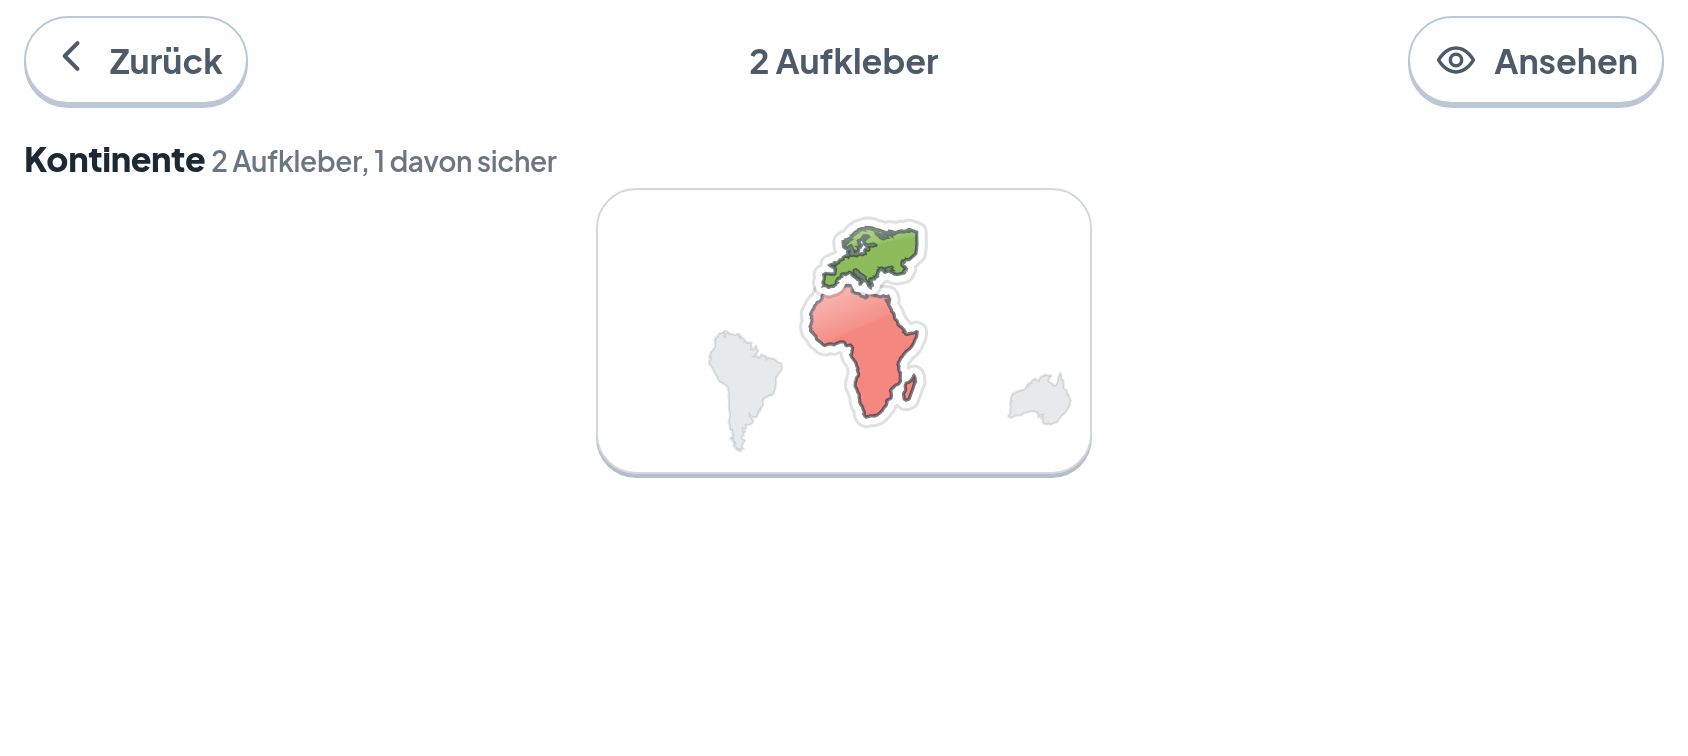
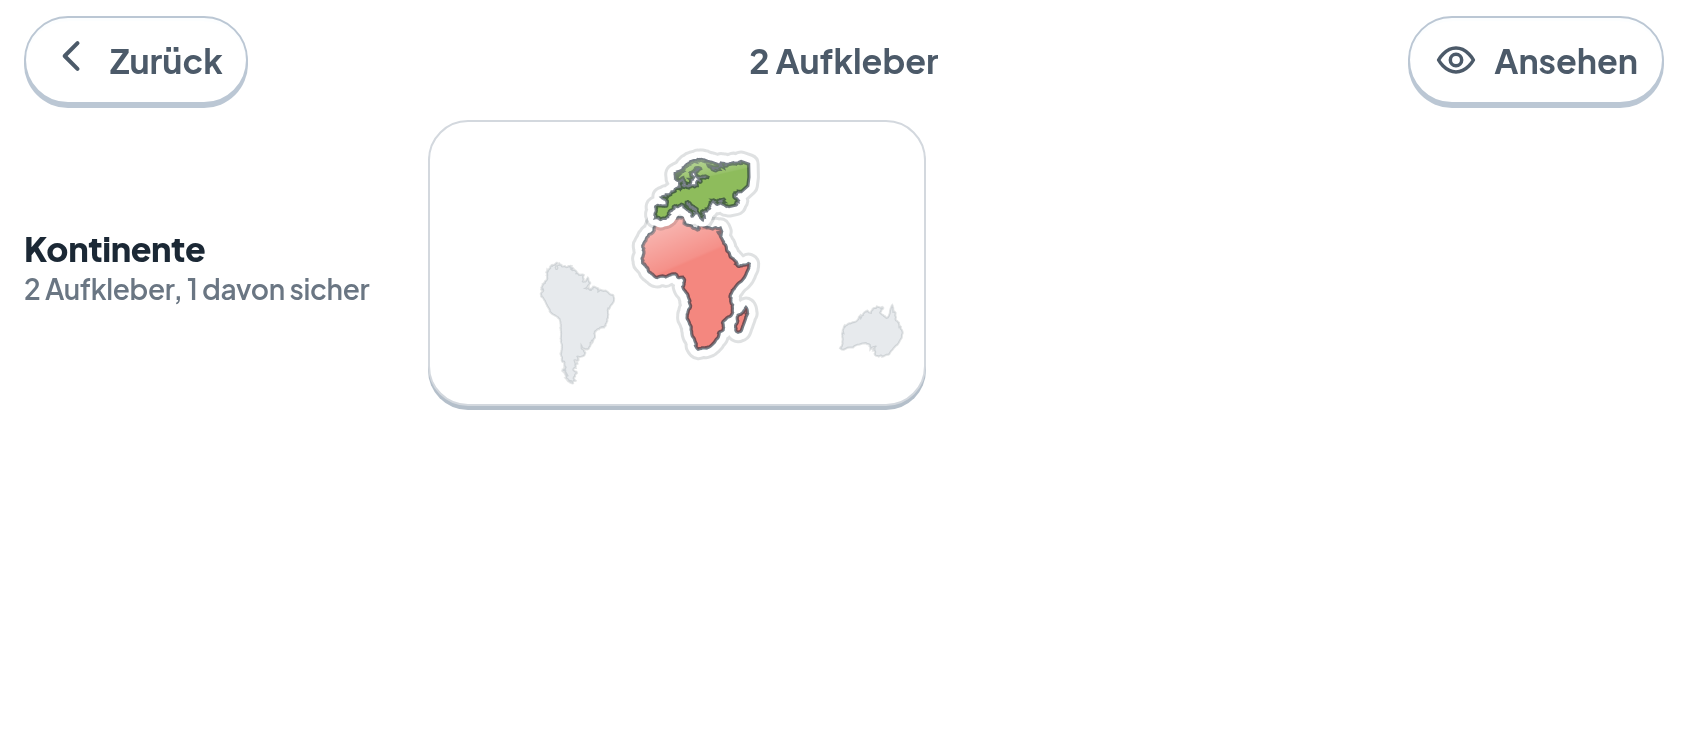
Q35: das Buch, das kein Tor gefuellt gesehen hat — und die Spalte, die sich verschoben hat
DER ANLASS. Zwei stehende Gegenproben bewiesen nichts mehr, und beide
hingen am Forscherbuch. Nachgesehen, was das Tor dort ueberhaupt sieht:
EINE Karte. Seit Q28 fasst eine Ebene MIT Landkarte ihre Aufkleber zu
einer Albumkarte zusammen - und der Rauchtest pflanzte nur
Bundeslaender-Fortschritt. Sechs statt zwei gepflanzte Laender aendern die
Zahl nicht, sie bleibt eins. Ein Buch mit einer Karte kann nicht rollen,
also war die Ueberlaufprobe still.

WAS DAS TOR JETZT SIEHT. Zusaetzlich eine halbe Rechenebene: Rechnen hat
keine Landkarte, also stehen dort einzelne Kleber - drei gekonnte, drei
blasse in der Vorschau. Sieben Karten in vier Bloecken, wie ein Kind es
sieht. Dazu drei Blindproben, die gefehlt haben: mindestens drei Karten
(nach OBEN gab es die Schranke laengst, nach unten nicht), mindestens eine
blasse (der offene Aufkleber wurde sonst nie gezeichnet), und es wird erst
gemessen, wenn die Ueberblendung durch ist - vorher lagen zwei
Bildschirme uebereinander und `scrollHeight` war die Summe: 794 statt 318.

WAS DIE MESSUNG DANN GEFUNDEN HAT. Das Buch war auf dem Zielgeraet 794
Punkte hoch in 318 sichtbaren, und die Vorschau stand vollstaendig unter
dem Rand. Ursache: `.abzkopf` („Deine Abzeichen") ist im kurzen
Querformat `display:none`, faellt aus der Platzierung des Rasters heraus -
und ab da lag JEDER Block in der schmalen Spalte, 190 statt 618 Punkte
breit, drei Reihen statt einer. Die Spalte wird jetzt genannt statt
[…]

diff --git a/prototyp/vorlage.html b/prototyp/vorlage.html
@@ -1826,6 +1826,50 @@ code{font-family:ui-monospace,monospace;font-size:.9em;background:var(--linie);
    * Schreibtisch gewaehlt (96 und 72 Punkte) und auf dem Telefon zu gross;
    * `passt` misst den Ueberlauf nicht, weil `.rollen` rollen DARF. */
   .kleber.gross .aufkleber svg{height:64px}
+  /* Und die Ueberschrift steht NEBEN ihrer Reihe, nicht darueber (Q35).
+   *
+   * Gemessen auf 844 x 390 mit fuenf Aufklebern in zwei Ebenen: 404 Punkte
+   * Inhalt in 318 sichtbaren - „Als Naechstes" stand als nackte
+   * Ueberschrift auf der Unterkante, die blassen Vorschaukleber darunter
+   * waren ganz weg. Ein Kind sieht eine Zeile und nichts dahinter.
+   *
+   * Uebereinander kostet jede Gruppe zweiundzwanzig Punkte allein fuer
+   * ihren Namen, und rechts neben der Albumkarte lagen dreihundert Punkte
+   * Weiss. Nebeneinander kostet sie nichts und benutzt die Breite, die das
+   * Querformat ohnehin hat: 143 + 74 + 74 statt 3 x 22 obendrauf.
+   *
+   * Das Raster passt, weil im Buch immer eine Ueberschrift und ein Block
+   * abwechseln. Der leere Fall („Hier kommen deine Aufkleber hin") ist
+   * KEIN Paar und bekommt deshalb beide Spalten. */
+  .rollen.buch{display:grid;grid-template-columns:minmax(110px,190px) 1fr;
+    align-items:center;column-gap:var(--r4);row-gap:var(--r2);align-content:start;
+    /* Der grosse Fuss unter `.rollen` ist fuer eine Liste gedacht, die
+       WIRKLICH rollt - er soll die letzte Zeile vom Rand loesen. Im Buch
+       auf dem kurzen Querformat sind es die letzten Punkte, die ueber
+       „rollt" oder „rollt nicht" entscheiden (gemessen 341 in 318). */
+    padding-bottom:var(--r3)}
+  /* Die Spalte wird GENANNT, nicht abgezaehlt.
+   *
+   * Erst stand hier nur das Raster und die Annahme, dass sich Ueberschrift
+   * und Block immer abwechseln. Sie stimmt nicht: `.abzkopf` („Deine
+   * Abzeichen") ist auf dem kurzen Querformat `display:none`, faellt aus
+   * der Platzierung heraus - und ab da lag jeder Block in der SCHMALEN
+   * Spalte. Gemessen: die Kleberreihe 190 statt 618 Punkte breit, drei
+   * Reihen statt einer, das Buch 794 Punkte statt 318. Sichtbar wurde es
+   * erst, als ein Profil mit Abzeichen im Spiel war.
+   *
+   * Mit ausgeschriebener Spalte ist es gleichgueltig, was dazwischen
+   * fehlt. */
+  .rollen.buch > .gruppe{margin:0;grid-column:1}
+  .rollen.buch > :not(.gruppe){grid-column:2}
+  /* Die Zaehlung auf eine eigene Zeile: in der schmalen Spalte brach sonst
+     „Bundeslaender 2 / Aufkleber, 1 davon sicher" mitten in der Zahl um. */
+  .rollen.buch > .gruppe small{display:block}
+  /* Und die Albumkarte an denselben linken Rand wie die Kleberreihen
+     darunter - sonst steht sie als einzige Karte mittig und die Spalten
+     springen. */
+  .rollen.buch > .albumkarte{justify-self:start;margin-inline:0}
+  .rollen.buch > .mitte{grid-column:1 / -1}
   /* Das Buch ist auf 844 x 390 randvoll - die Karte bekommt hier weniger
      Hoehe als der Platz auf dem Schreibtisch hergibt. Gerechnet: Kopf 60 +
      Abzeichen 60 + zweimal (Ueberschrift 28 + Karte + Polster 16) muessen
@@ -1849,7 +1893,12 @@ code{font-family:ui-monospace,monospace;font-size:.9em;background:var(--linie);
      Wischstreifen 21, auf dem iPhone SE quer 6 - `passt` hat es an drei
      Groessen gemeldet, nachdem ich es an einer gemessen hatte. Der enge
      Fall ist nicht der, den man vor sich hat. */
-  .rollen.buch:not(:has(.albumkarte ~ .albumkarte)) .albumkarte svg{height:125px}
+  /* Q35: „einzige Karte" heisst NICHTS DAHINTER, nicht „keine zweite
+     Albumkarte". Sobald das Buch eine Rechenebene enthaelt, folgen auf die
+     Albumkarte noch zwei Kleberreihen samt Ueberschriften - dann ist der
+     Bildschirm nicht halbleer, und die 125 kosten genau die Punkte, die
+     der Vorschau unten fehlen (gemessen 370 in 318 sichtbaren). */
+  .rollen.buch:not(:has(.albumkarte ~ *)) .albumkarte svg{height:125px}
   .kleber.gross.vorschau .aufkleber svg{height:48px}
   /* Und die Ueberschriften der Aufklebergruppen werden kleiner.
    *
